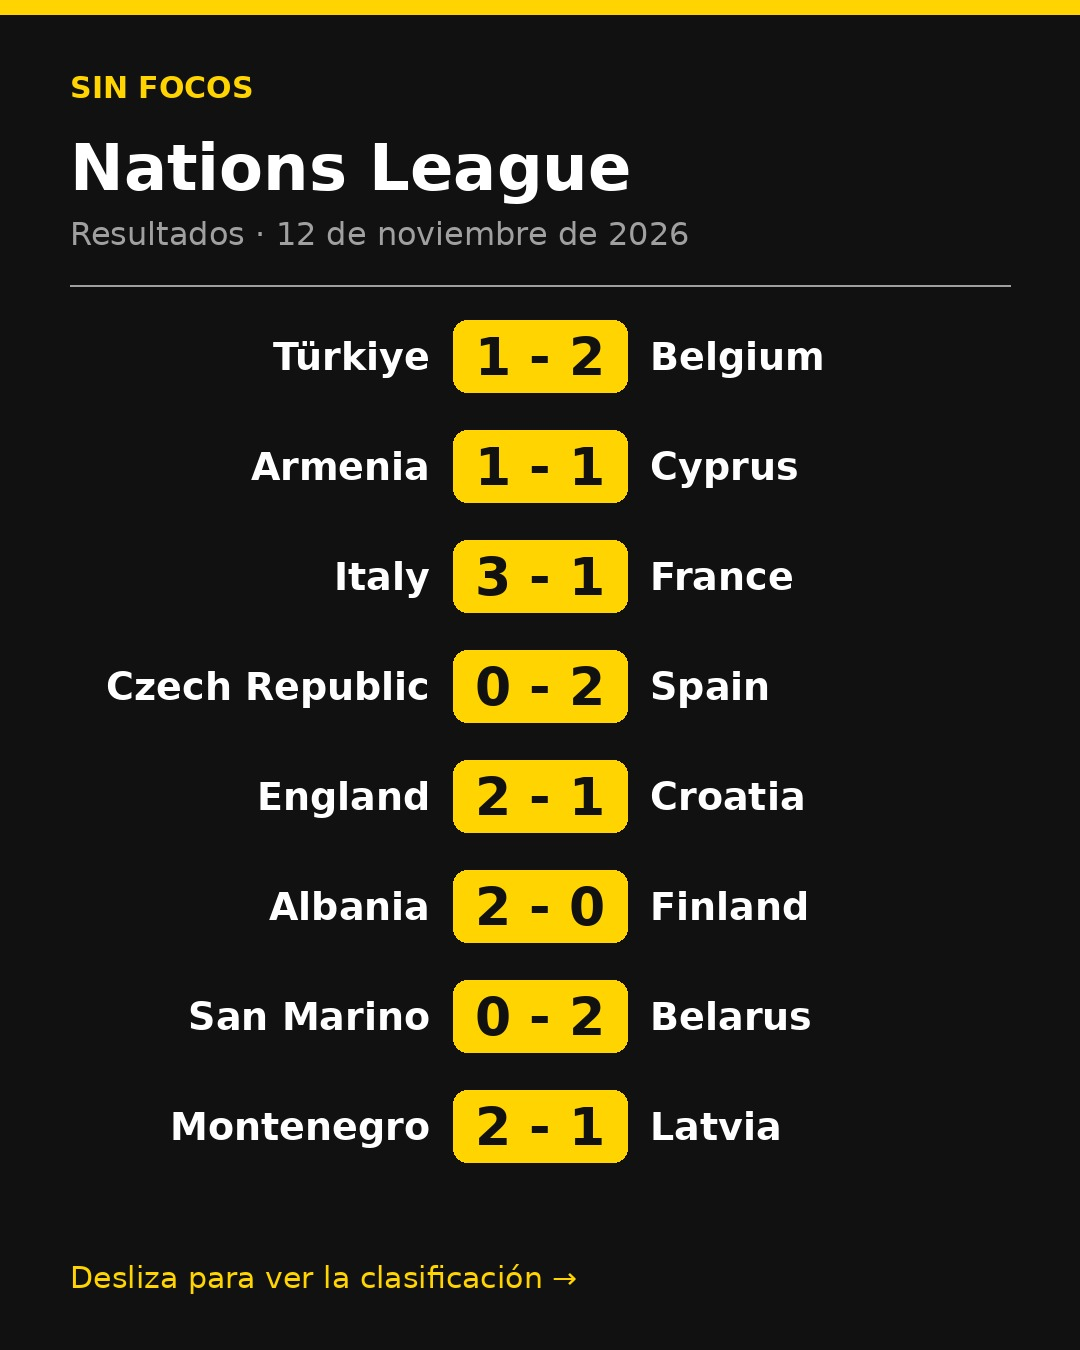
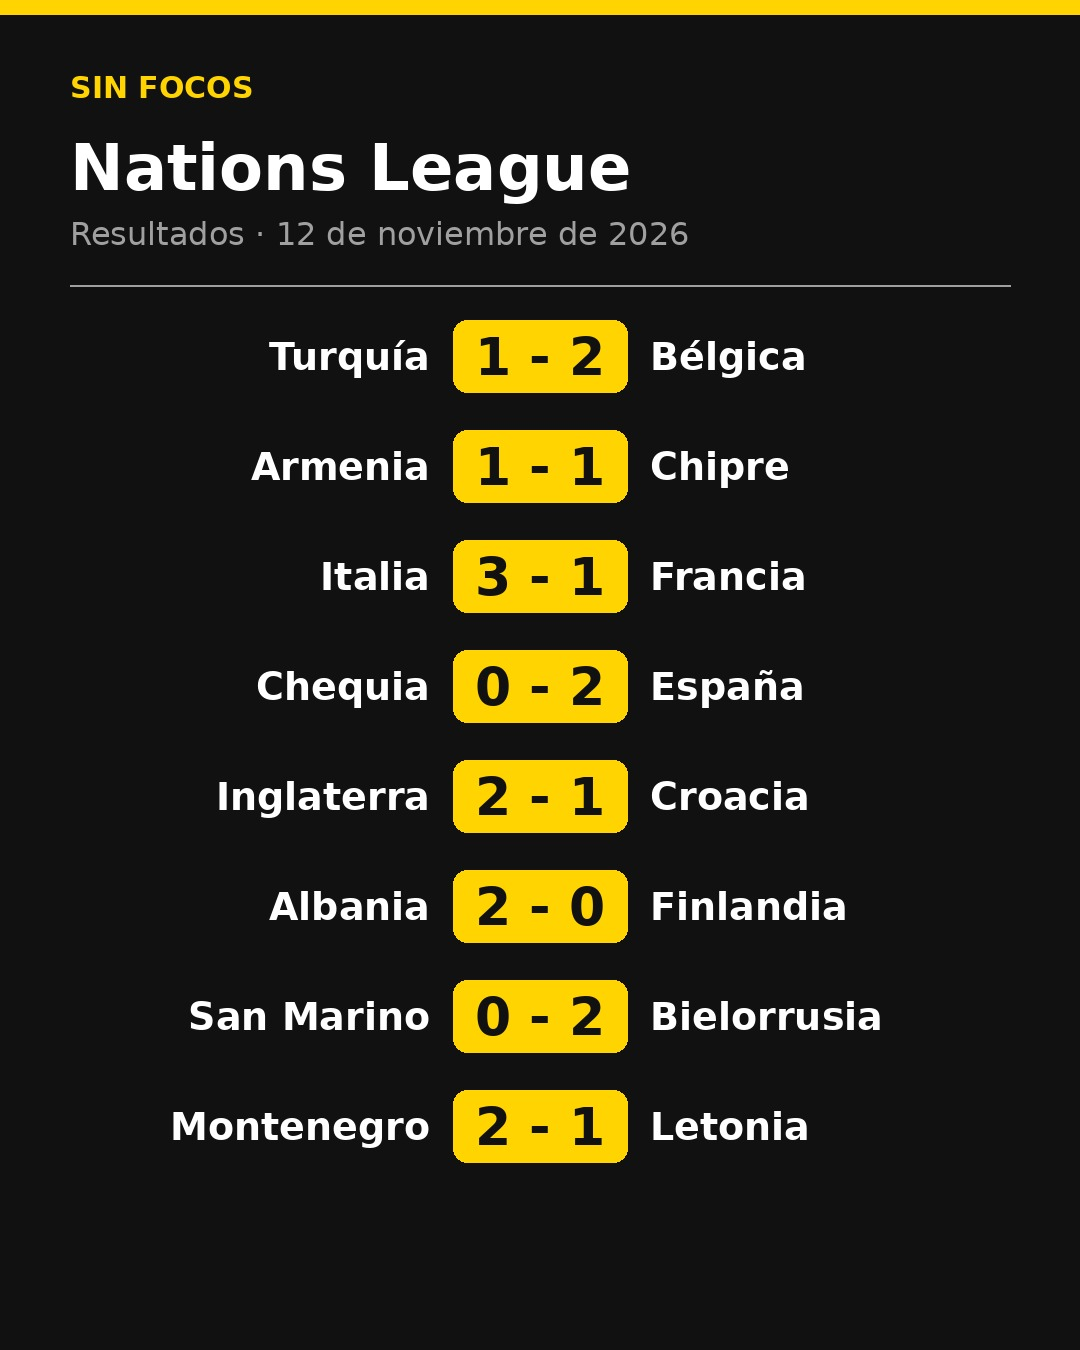
Nombres en español y barra de resultados que gira sola
- pipeline/nombres.py: selecciones y equipos con nombre en inglés o sin tildes pasan a español
  al descargar los datos (web, tarjetas de Instagram y crónicas) y también al mostrar los ya guardados
- Corregidos los nombres de la Nations League del 12/11 y regenerada su tarjeta
- La barra amarilla se desplaza sola en bucle; se para al pasar el ratón y respeta
  la opción de reducir movimiento del sistema

Claude-Session: https://claude.ai/code/session_019Q6nugrUhPz33a3GgTWHzv

diff --git a/pipeline/web.py b/pipeline/web.py
@@ -16,6 +16,7 @@ from pathlib import Path
 
 import markdown
 
+from .nombres import es
 from .tarjetas import fecha_larga
 
 RAIZ = Path(__file__).resolve().parent.parent
@@ -33,10 +34,13 @@ CSS = """
 body{margin:0;background:var(--fondo);color:var(--tinta);font:16px/1.55 Inter,system-ui,sans-serif}
 a{color:inherit;text-decoration:none}img{display:block;max-width:100%}
 .tit{font-family:Oswald,'Arial Narrow',Impact,sans-serif;text-transform:uppercase;letter-spacing:.01em}
-.ticker{background:var(--amarillo);color:var(--negro);overflow-x:auto;white-space:nowrap;scrollbar-width:none}
-.ticker::-webkit-scrollbar{display:none}
-.ticker .in{display:inline-flex;gap:26px;padding:8px 16px;font:700 14px Inter,sans-serif}
-.ticker .in>a{display:inline-flex;align-items:center}
+.ticker{background:var(--amarillo);color:var(--negro);overflow:hidden;white-space:nowrap}
+.ticker .in{display:inline-flex;width:max-content;animation:rueda var(--dur,40s) linear infinite}
+.ticker:hover .in,.ticker:focus-within .in{animation-play-state:paused}
+.ticker .tira{display:inline-flex;gap:26px;padding:8px 13px;font:700 14px Inter,sans-serif}
+.ticker .tira>a{display:inline-flex;align-items:center}
+@keyframes rueda{from{transform:translateX(0)}to{transform:translateX(-50%)}}
+@media (prefers-reduced-motion:reduce){.ticker{overflow-x:auto}.ticker .in{animation:none}.ticker .tira[aria-hidden]{display:none}}
 .ticker b{background:var(--negro);color:var(--amarillo);padding:1px 7px;border-radius:3px;margin:0 7px;font-variant-numeric:tabular-nums}
 .ticker .lt{font-size:11px;text-transform:uppercase;letter-spacing:.08em;opacity:.7}
 header{display:flex;align-items:center;gap:14px;max-width:1180px;margin:0 auto;padding:16px}
@@ -110,9 +114,14 @@ def _ticker(arts: list[dict], prof: str) -> str:
     for a in sorted((a for a in con_partidos if a["fecha"] == ultimo), key=lambda a: a.get("prioridad", 3)):
         piezas.append(f'<a class="lt" href="{prof}ligas/{_slug_liga(a["etiqueta"])}.html">{_e(a["etiqueta"])}</a>')
         for p in a["partidos"]:
-            piezas.append(f'<a href="{prof}articulos/{a["slug"]}.html">{_e(p["local"])}'
-                          f'<b>{p["goles_local"]} - {p["goles_visitante"]}</b>{_e(p["visitante"])}</a>')
-    return f'<div class="ticker"><div class="in">{"".join(piezas)}</div></div>'
+            piezas.append(f'<a href="{prof}articulos/{a["slug"]}.html">{_e(es(p["local"]))}'
+                          f'<b>{p["goles_local"]} - {p["goles_visitante"]}</b>{_e(es(p["visitante"]))}</a>')
+    # La tira se repite dos veces y se desplaza en bucle: al llegar a la mitad vuelve al principio
+    # sin que se note. Velocidad constante: ~3 s por elemento.
+    tira = "".join(piezas)
+    segundos = max(20, round(len(piezas) * 3.2))
+    return (f'<div class="ticker" style="--dur:{segundos}s"><div class="in">'
+            f'<div class="tira">{tira}</div><div class="tira" aria-hidden="true">{tira}</div></div></div>')
 
 
 def _pagina(cfg: dict, titulo: str, cuerpo: str, prof: str = "", descripcion: str = "",
@@ -191,13 +200,13 @@ def _slug_liga(etiqueta: str) -> str:
 
 
 def _filas_partidos(partidos: list[dict]) -> str:
-    return "".join(f'<div class="partido"><span class="l">{_e(p["local"])}</span>'
-                   f'<b>{p["goles_local"]} - {p["goles_visitante"]}</b><span>{_e(p["visitante"])}</span></div>'
+    return "".join(f'<div class="partido"><span class="l">{_e(es(p["local"]))}</span>'
+                   f'<b>{p["goles_local"]} - {p["goles_visitante"]}</b><span>{_e(es(p["visitante"]))}</span></div>'
                    for p in partidos)
 
 
 def _tabla(tabla: list[dict]) -> str:
-    filas = "".join(f'<tr><td><b class="pos">{t["pos"]}</b></td><td>{_e(t["equipo"])}</td><td>{t.get("pj", "")}</td>'
+    filas = "".join(f'<tr><td><b class="pos">{t["pos"]}</b></td><td>{_e(es(t["equipo"]))}</td><td>{t.get("pj", "")}</td>'
                     f'<td>{t.get("dg", "")}</td><td><strong>{t["pts"]}</strong></td></tr>' for t in tabla)
     return f'<div class="comp"><table><tr><th>#</th><th>Equipo</th><th>PJ</th><th>DG</th><th>Pts</th></tr>{filas}</table></div>'
 
@@ -262,8 +271,8 @@ def _pagina_liga(etiqueta: str, lista: list[dict]) -> str:
     previa = next((a for a in lista if a.get("proximos")), None)
     ultima_jugada = next((a["fecha"] for a in lista if a.get("partidos")), "")
     if previa and previa["fecha"] > ultima_jugada:
-        filas = "".join(f'<div class="partido"><span class="l">{_e(p["local"])}</span>'
-                        f'<b class="hora">{_e(p["fecha"][11:16] or "--:--")}</b><span>{_e(p["visitante"])}</span></div>'
+        filas = "".join(f'<div class="partido"><span class="l">{_e(es(p["local"]))}</span>'
+                        f'<b class="hora">{_e(p["fecha"][11:16] or "--:--")}</b><span>{_e(es(p["visitante"]))}</span></div>'
                         for p in previa["proximos"])
         out += (f'<h2 class="sec tit">Próximos partidos</h2><div class="comp"><h3 class="tit">'
                 f'<a href="{_url(previa, prof)}">{fecha_larga(previa["fecha"])} · Leer la previa →</a></h3>{filas}</div>')

diff --git a/pipeline/nombres.py b/pipeline/nombres.py
@@ -1,0 +1,61 @@
+"""Nombres de selecciones y equipos en español.
+
+API-Football da los nombres en inglés (o sin tildes). Aquí se traducen antes de guardarlos,
+para que web, tarjetas de Instagram y crónicas salgan en español. Para añadir uno, basta
+con una línea más: "Nombre en la API": "Nombre en español".
+"""
+from __future__ import annotations
+
+SELECCIONES = {
+    "Albania": "Albania", "Andorra": "Andorra", "Armenia": "Armenia", "Austria": "Austria",
+    "Azerbaijan": "Azerbaiyán", "Belarus": "Bielorrusia", "Belgium": "Bélgica",
+    "Bosnia & Herzegovina": "Bosnia y Herzegovina", "Bosnia and Herzegovina": "Bosnia y Herzegovina",
+    "Bulgaria": "Bulgaria", "Croatia": "Croacia", "Cyprus": "Chipre", "Czech Republic": "Chequia",
+    "Czechia": "Chequia", "Denmark": "Dinamarca", "England": "Inglaterra", "Estonia": "Estonia",
+    "Faroe Islands": "Islas Feroe", "Finland": "Finlandia", "France": "Francia", "Georgia": "Georgia",
+    "Germany": "Alemania", "Gibraltar": "Gibraltar", "Greece": "Grecia", "Hungary": "Hungría",
+    "Iceland": "Islandia", "Ireland": "Irlanda", "Republic of Ireland": "Irlanda", "Israel": "Israel",
+    "Italy": "Italia", "Kazakhstan": "Kazajistán", "Kosovo": "Kosovo", "Latvia": "Letonia",
+    "Liechtenstein": "Liechtenstein", "Lithuania": "Lituania", "Luxembourg": "Luxemburgo",
+    "Malta": "Malta", "Moldova": "Moldavia", "Montenegro": "Montenegro", "Netherlands": "Países Bajos",
+    "North Macedonia": "Macedonia del Norte", "FYR Macedonia": "Macedonia del Norte",
+    "Northern Ireland": "Irlanda del Norte", "Norway": "Noruega", "Poland": "Polonia",
+    "Portugal": "Portugal", "Romania": "Rumanía", "Russia": "Rusia", "San Marino": "San Marino",
+    "Scotland": "Escocia", "Serbia": "Serbia", "Slovakia": "Eslovaquia", "Slovenia": "Eslovenia",
+    "Spain": "España", "Sweden": "Suecia", "Switzerland": "Suiza", "Turkey": "Turquía",
+    "Türkiye": "Turquía", "Ukraine": "Ucrania", "Wales": "Gales",
+    "Argentina": "Argentina", "Brazil": "Brasil", "Mexico": "México", "USA": "Estados Unidos",
+    "United States": "Estados Unidos", "Canada": "Canadá", "Morocco": "Marruecos", "Japan": "Japón",
+    "South Korea": "Corea del Sur", "Korea Republic": "Corea del Sur", "Peru": "Perú",
+    "Egypt": "Egipto", "Algeria": "Argelia", "Tunisia": "Túnez", "Cameroon": "Camerún",
+    "Ivory Coast": "Costa de Marfil", "Saudi Arabia": "Arabia Saudí", "New Zealand": "Nueva Zelanda",
+    "Australia": "Australia", "Chile": "Chile", "Colombia": "Colombia", "Uruguay": "Uruguay",
+}
+
+CLUBES = {
+    # España (la API suele quitar tildes o usar el nombre inglés)
+    "Atletico Madrid": "Atlético de Madrid", "Alaves": "Alavés", "Leganes": "Leganés",
+    "Cadiz": "Cádiz", "Malaga": "Málaga", "Almeria": "Almería", "Cordoba": "Córdoba",
+    "Deportivo La Coruna": "Deportivo de La Coruña", "Sporting Gijon": "Sporting de Gijón",
+    "Celta Vigo": "Celta de Vigo", "Mirandes": "Mirandés", "Castellon": "Castellón",
+    "Racing Santander": "Racing de Santander", "Racing Ferrol": "Racing de Ferrol",
+    "Merida AD": "Mérida", "Gimnastic": "Nàstic de Tarragona", "Gimnastic Tarragona": "Nàstic de Tarragona",
+    "Sevilla Atletico": "Sevilla Atlético", "Atletico Madrid II": "Atlético de Madrid B",
+    "Real Madrid II": "Real Madrid Castilla", "UD Logrones": "UD Logroñés", "SD Logrones": "SD Logroñés",
+    "Alcorcon": "Alcorcón",
+    # Extranjero, solo cuando hay nombre español de uso común
+    "Bayern Munich": "Bayern de Múnich", "Bayern München": "Bayern de Múnich",
+    "Inter": "Inter de Milán", "AC Milan": "Milan", "Napoli": "Nápoles",
+    "Sporting CP": "Sporting de Portugal", "FC Porto": "Oporto",
+    "Paris Saint Germain": "PSG", "Olympique Marseille": "Olympique de Marsella",
+    "Olympique Lyonnais": "Olympique de Lyon", "Lyon": "Olympique de Lyon", "Marseille": "Olympique de Marsella",
+}
+
+_TODOS = {**SELECCIONES, **CLUBES}
+
+
+def es(nombre: str | None) -> str | None:
+    """Devuelve el nombre en español si lo conocemos; si no, el original."""
+    if not nombre:
+        return nombre
+    return _TODOS.get(nombre, nombre)

diff --git a/pipeline/fuentes.py b/pipeline/fuentes.py
@@ -13,6 +13,8 @@ from pathlib import Path
 
 import requests
 
+from .nombres import es
+
 BASE = "https://v3.football.api-sports.io"
 RAIZ = Path(__file__).resolve().parent.parent
 CACHE_LIGAS = RAIZ / "data" / "ligas_resueltas.json"
@@ -104,12 +106,12 @@ class ApiFootball:
         if not resp:
             return []
         tabla = resp[0]["league"]["standings"][0]
-        return [{"pos": t["rank"], "equipo": t["team"]["name"], "pts": t["points"],
+        return [{"pos": t["rank"], "equipo": es(t["team"]["name"]), "pts": t["points"],
                  "pj": t["all"]["played"], "dg": t["goalsDiff"]} for t in tabla]
 
     def goleadores(self, partido_id: int) -> list[dict]:
         eventos = self._get("fixtures/events", fixture=partido_id)
-        return [{"min": e["time"]["elapsed"], "equipo": e["team"]["name"],
+        return [{"min": e["time"]["elapsed"], "equipo": es(e["team"]["name"]),
                  "jugador": e["player"]["name"], "tipo": e["detail"]}
                 for e in eventos if e["type"] == "Goal" and e["detail"] != "Missed Penalty"]
 
@@ -125,8 +127,8 @@ def normalizar_partido(f: dict, liga: dict) -> dict:
         "estadio": (f["fixture"].get("venue") or {}).get("name"),
         "jornada": f["league"].get("round"),
         "liga_id": liga["id"],
-        "local": f["teams"]["home"]["name"],
-        "visitante": f["teams"]["away"]["name"],
+        "local": es(f["teams"]["home"]["name"]),
+        "visitante": es(f["teams"]["away"]["name"]),
         "goles_local": f["goals"]["home"],
         "goles_visitante": f["goals"]["away"],
         "goleadores": [],
